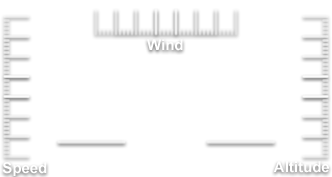
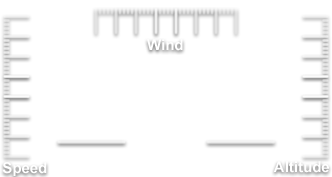
* Beschreibungen aktualisiert. * StringTbl sortiert. * Blackhawk HUD Grafiken aktualisiert. + Neue HUD Grafiken für Schütze und Passagier. * Blackhawk Script sortiert.

Changed region(s): [[0.3012, 0.1695, 0.7229, 0.226], [0.2711, 0.0565, 0.7229, 0.113]]

diff --git a/ModernCombatFINALTRY.c4d/Vehicles.c4d/BlackHawk.c4d/Displays.c4d/HUDPilot.c4d/ArrowRotation.c4d/Script.c b/ModernCombatFINALTRY.c4d/Vehicles.c4d/BlackHawk.c4d/Displays.c4d/HUDPilot.c4d/ArrowRotation.c4d/Script.c
@@ -1,6 +1,9 @@
-/* Rotation */
+/*-- Rotationsanzeige --*/
 
 #strict 2
+
+
+/* Initalisierung */
 
 public func Initialize() 
 {

diff --git a/ModernCombatFINALTRY.c4d/Vehicles.c4d/BlackHawk.c4d/Displays.c4d/HUDPilot.c4d/ArrowLinear.c4d/Script.c b/ModernCombatFINALTRY.c4d/Vehicles.c4d/BlackHawk.c4d/Displays.c4d/HUDPilot.c4d/ArrowLinear.c4d/Script.c
@@ -1,6 +1,9 @@
-/* Pfeil */
+/*-- Pfeil --*/
 
 #strict 2
+
+
+/* Initalisierung */
 
 public func Initialize() 
 {
